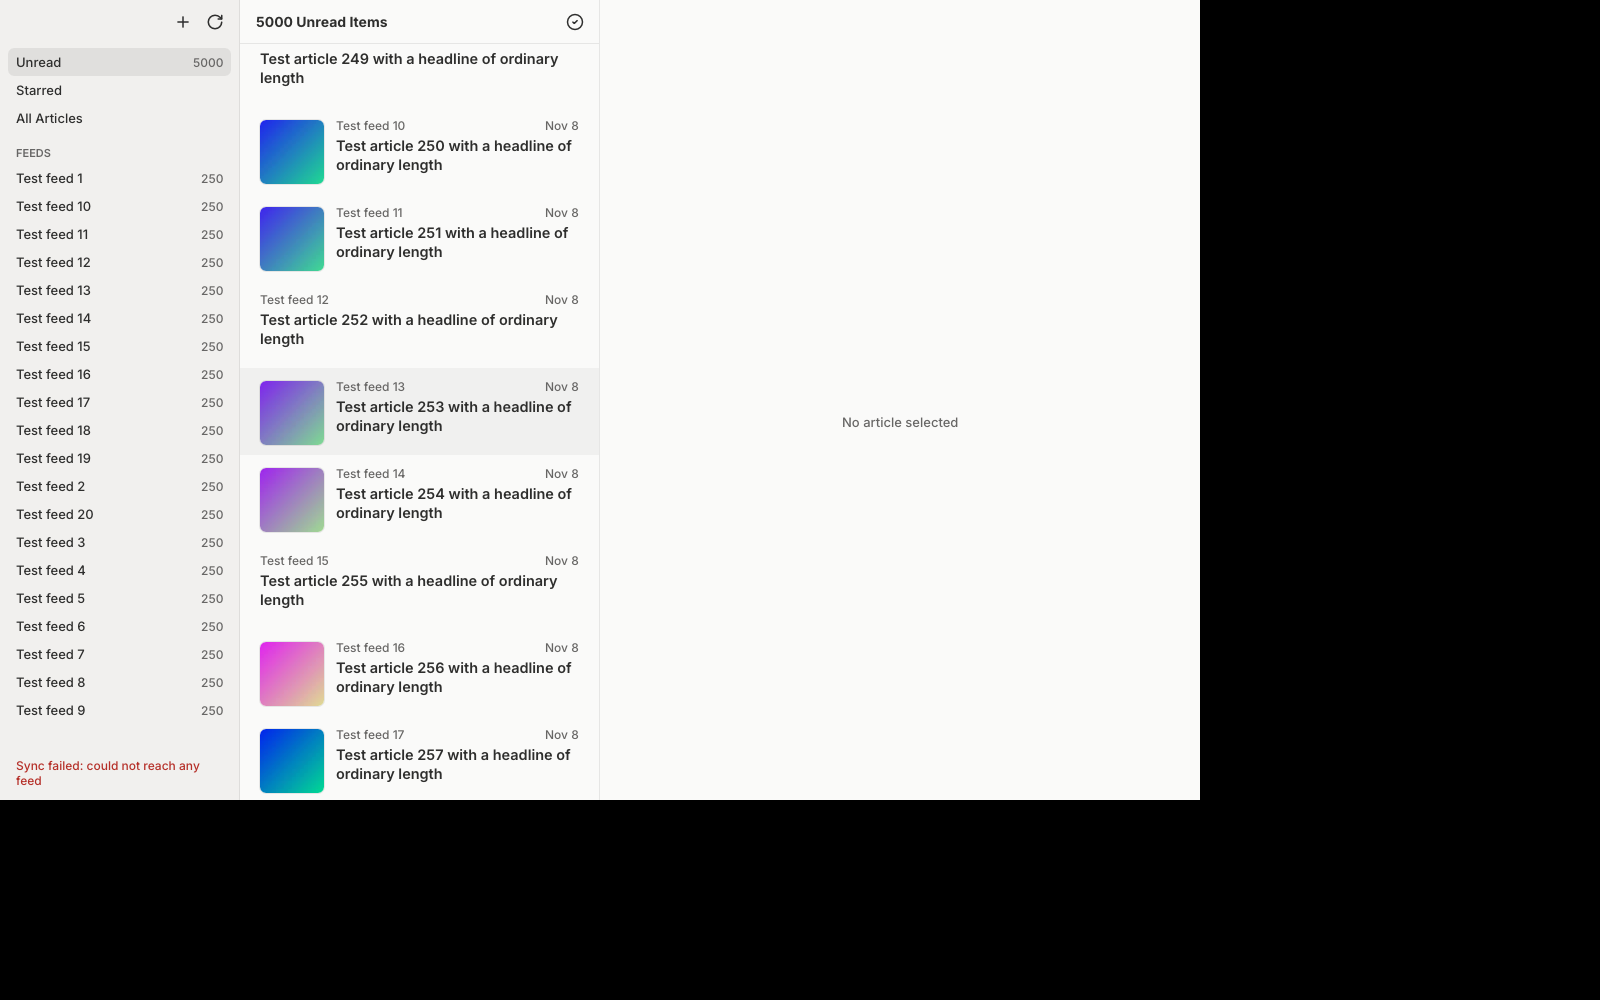
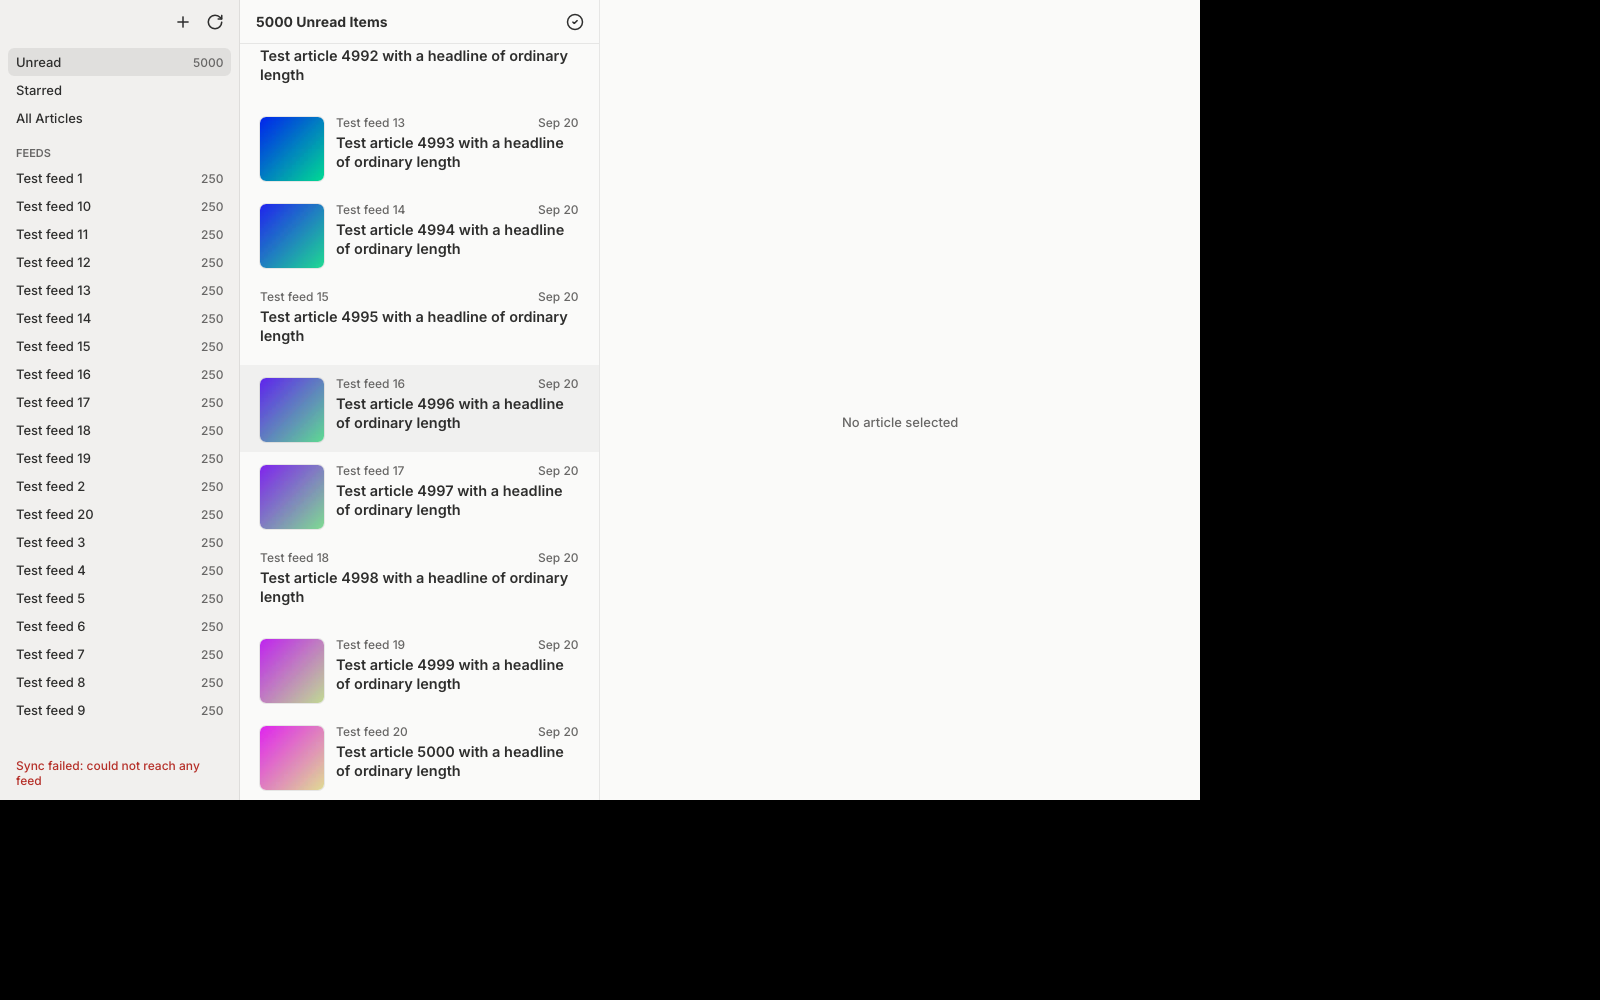
Scroll both apps to the bottom of the list in the bench
The same wheel notches scroll each app a different distance (on the dev
server, Tauri to article ~351 and Rust to ~249 after 360), so the scroll CPU
wasn't comparable. Scroll in batches of 100 until a batch leaves the window
unchanged: both apps cover all 5,000 articles. The report adds the notches and
seconds each app needed.

diff --git a/bench/bench.py b/bench/bench.py
@@ -6,7 +6,8 @@ account), then measures the app and every process it runs (WebKit's included):
 
   launch  10 s after its window appears
   idle    the 30 s after that
-  scroll  360 mouse-wheel notches over the article list, 30 ms apart
+  scroll  mouse-wheel notches over the article list, 30 ms apart, in batches of 100, until
+          a batch no longer changes the window: the whole list, the same distance in both apps
 
 Linux (X11, or Xwayland: both apps are made to use it) and macOS. Python 3.9+, standard
 library only. See README.md next to this file.
@@ -15,6 +16,7 @@ library only. See README.md next to this file.
 import argparse
 import ctypes
 import datetime
+import hashlib
 import lzma
 import os
 import platform
@@ -36,8 +38,7 @@ def main():
     parser.add_argument("--rust", required=True, help="the all-Rust build's binary")
     parser.add_argument("--machine", required=True, help="a short name for the results file, like steam-deck or macbook-m1")
     parser.add_argument("--runs", type=int, default=2, help="measured runs per app (default 2)")
-    parser.add_argument("--notches", type=int, default=360)
-    parser.add_argument("--wheel-delta", type=int, default=-1,
+    parser.add_argument("--wheel-delta", type=int, default=-3,
                         help="macOS only: lines per scroll event; flip the sign if the list scrolls up")
     parser.add_argument("--no-warmup", action="store_true",
                         help="skip the unmeasured first launch of each app that fills shader caches")
@@ -107,7 +108,9 @@ def run(plat, label, binary, args, measure):
         pids = plat.processes(proc.pid, before)
         cpu_before = plat.cpu(pids)
         threads_before = plat.threads(pids)
-        plat.scroll(proc.pid, x, y, args.notches, args.wheel_delta)
+        scroll_started = time.time()
+        notches = scroll_to_bottom(plat, label, window, args.wheel_delta)
+        scroll_time = time.time() - scroll_started
         time.sleep(3)
         pids = plat.processes(proc.pid, before)
         cpu_scroll = plat.cpu(pids) - cpu_before
@@ -119,6 +122,7 @@ def run(plat, label, binary, args, measure):
             "cpu_launch": cpu_launch, "mem_launch": mem_launch,
             "cpu_idle": cpu_idle, "mem_idle": mem_idle,
             "cpu_scroll": cpu_scroll, "mem_scroll": mem_scroll,
+            "notches": notches, "scroll_time": scroll_time,
             "per_process": plat.per_process(pids), "threads": threads, "screenshot": shot,
         }
     finally:
@@ -132,6 +136,31 @@ def run(plat, label, binary, args, measure):
         time.sleep(2)
 
 
+BATCH = 100
+MAX_NOTCHES = 30000
+
+
+def scroll_to_bottom(plat, label, window, delta):
+    """Scrolls in batches until one leaves the window unchanged; returns the notches sent.
+
+    The last batch, at the bottom, moves nothing; both apps get one, so it stays fair."""
+    last, sent = plat.snapshot(window), 0
+    while True:
+        plat.scroll(BATCH, delta)
+        sent += BATCH
+        time.sleep(0.5)
+        now = plat.snapshot(window)
+        if now == last:
+            if sent == BATCH:
+                sys.exit(f"{label}: the window didn't change while scrolling. Either the pointer wasn't over "
+                         "the list, or capturing the window doesn't work here (on macOS: Screen Recording "
+                         "access). See README.md.")
+            return sent
+        if sent >= MAX_NOTCHES:
+            sys.exit(f"{label}: no bottom after {sent} notches; is the window still changing on its own?")
+        last = now
+
+
 def diff_threads(before, after):
     out = {name: after[name] - before.get(name, 0.0) for name in after}
     return sorted(((s, n) for n, s in out.items() if s >= 0.05), reverse=True)[:12]
@@ -143,7 +172,8 @@ def summary_line(r, plat):
     return (f"window after {r['window_after']:.1f} s | procs {r['procs']} | "
             f"launch cpu {r['cpu_launch']:.2f} s, {a}/{b} {fmt(r['mem_launch'])} | "
             f"idle 30 s cpu {r['cpu_idle']:.2f} s, {fmt(r['mem_idle'])} | "
-            f"scroll cpu {r['cpu_scroll']:.2f} s, {fmt(r['mem_scroll'])}")
+            f"scroll {r['notches']} notches in {r['scroll_time']:.0f} s, cpu {r['cpu_scroll']:.2f} s, "
+            f"{fmt(r['mem_scroll'])}")
 
 
 def write_report(args, plat, apps, results):
@@ -156,16 +186,17 @@ def write_report(args, plat, apps, results):
         f"- Date: {datetime.date.today().isoformat()}",
         f"- Machine: {plat.machine_info()}",
         f"- Builds: " + ", ".join(f"{label} `{git_rev(binary)}`" for label, binary in apps),
-        f"- Settings: {args.runs} runs, {args.notches} notches, warm-up {'off' if args.no_warmup else 'on'}",
+        f"- Settings: {args.runs} runs, scroll to the bottom of the list, warm-up {'off' if args.no_warmup else 'on'}",
         f"- Memory columns: {a} / {b} in MB, summed over the app and its child processes. {plat.mem_note}",
         "",
-        f"| Run | Window after | Procs | Launch CPU | Launch {a}/{b} | Idle 30 s CPU | Idle {a}/{b} | Scroll CPU | After scroll {a}/{b} |",
-        "|---|---|---|---|---|---|---|---|---|",
+        f"| Run | Window after | Procs | Launch CPU | Launch {a}/{b} | Idle 30 s CPU | Idle {a}/{b} | Notches | Scroll time | Scroll CPU | After scroll {a}/{b} |",
+        "|---|---|---|---|---|---|---|---|---|---|---|",
     ]
     for r in results:
         m = lambda k: f"{r[k][0]:.0f} / {r[k][1]:.0f}"
         lines.append(f"| {r['label']} | {r['window_after']:.1f} s | {r['procs']} | {r['cpu_launch']:.2f} s | "
-                     f"{m('mem_launch')} | {r['cpu_idle']:.2f} s | {m('mem_idle')} | {r['cpu_scroll']:.2f} s | "
+                     f"{m('mem_launch')} | {r['cpu_idle']:.2f} s | {m('mem_idle')} | {r['notches']} | {r['scroll_time']:.0f} s | "
+                     f"{r['cpu_scroll']:.2f} s | "
                      f"{m('mem_scroll')} |")
     for r in results:
         lines += ["", f"## {r['label']}", "", f"Processes after the scroll ({a} / {b} MB):", ""]
@@ -321,7 +352,10 @@ class Linux(Platform):
     def prepare_scroll(self, pid, x, y):
         self.x.move(x, y)
 
-    def scroll(self, pid, x, y, notches, _delta):
+    def snapshot(self, window):
+        return self.x.snapshot(window[4], window[2], window[3])
+
+    def scroll(self, notches, _delta):
         for _ in range(notches):
             self.x.wheel_down()
             time.sleep(0.03)
@@ -358,6 +392,14 @@ class XWindowAttributes(ctypes.Structure):
                 ("override_redirect", ctypes.c_int), ("screen", ctypes.c_void_p)]
 
 
+class XImage(ctypes.Structure):
+    """The start of Xlib's XImage: the fields up to the ones read here."""
+    _fields_ = [("width", ctypes.c_int), ("height", ctypes.c_int), ("xoffset", ctypes.c_int),
+                ("format", ctypes.c_int), ("data", ctypes.c_void_p), ("byte_order", ctypes.c_int),
+                ("bitmap_unit", ctypes.c_int), ("bitmap_bit_order", ctypes.c_int), ("bitmap_pad", ctypes.c_int),
+                ("depth", ctypes.c_int), ("bytes_per_line", ctypes.c_int), ("bits_per_pixel", ctypes.c_int)]
+
+
 class Xlib:
     """Just enough Xlib + XTest, through ctypes, to find a window by PID and scroll it."""
 
@@ -384,6 +426,8 @@ class Xlib:
         x.XTranslateCoordinates.argtypes = [c.c_void_p, c.c_ulong, c.c_ulong, c.c_int, c.c_int,
                                             c.POINTER(c.c_int), c.POINTER(c.c_int), c.POINTER(c.c_ulong)]
         x.XFree.argtypes = [c.c_void_p]
+        x.XGetImage.restype = c.c_void_p
+        x.XGetImage.argtypes = [c.c_void_p, c.c_ulong, c.c_int, c.c_int, c.c_uint, c.c_uint, c.c_ulong, c.c_int]
         x.XFlush.argtypes = [c.c_void_p]
         x.XSync.argtypes = [c.c_void_p, c.c_int]
         self.t.XTestFakeMotionEvent.argtypes = [c.c_void_p, c.c_int, c.c_int, c.c_int, c.c_ulong]
@@ -419,7 +463,7 @@ class Xlib:
         return out
 
     def window_of(self, pid):
-        """(x, y, width, height) on the root of pid's largest viewable window, or None."""
+        """(x, y, width, height, id) on the root of pid's largest viewable window, or None."""
         best, todo = None, [self.root]
         while todo:
             w = todo.pop()
@@ -435,8 +479,19 @@ class Xlib:
             self.x.XTranslateCoordinates(self.d, w, self.root, 0, 0, ctypes.byref(rx), ctypes.byref(ry),
                                          ctypes.byref(child))
             if best is None or a.width * a.height > best[2] * best[3]:
-                best = (rx.value, ry.value, a.width, a.height)
+                best = (rx.value, ry.value, a.width, a.height, w)
         return best
+
+    def snapshot(self, w, width, height):
+        """A hash of the window's pixels."""
+        img = self.x.XGetImage(self.d, w, 0, 0, width, height, (1 << 64) - 1, 2)  # AllPlanes, ZPixmap
+        if not img:
+            return None
+        head = ctypes.cast(img, ctypes.POINTER(XImage))[0]
+        digest = hashlib.sha1(ctypes.string_at(head.data, head.bytes_per_line * head.height)).digest()
+        self.x.XFree(head.data)
+        self.x.XFree(img)
+        return digest
 
     def move(self, x, y):
         self.t.XTestFakeMotionEvent(self.d, -1, x, y, 0)
@@ -531,7 +586,17 @@ class Mac(Platform):
     def prepare_scroll(self, pid, x, y):
         subprocess.run([self.helper, "focus", str(pid), str(x), str(y)], check=True)
 
-    def scroll(self, pid, x, y, notches, delta):
+    def snapshot(self, window):
+        path = os.path.join(self.home, "snapshot.png")
+        region = ",".join(str(v) for v in window[:4])
+        subprocess.run(["screencapture", "-x", "-R", region, path], capture_output=True)
+        try:
+            with open(path, "rb") as f:
+                return hashlib.sha1(f.read()).digest()
+        except OSError:
+            return None
+
+    def scroll(self, notches, delta):
         subprocess.run([self.helper, "scroll", str(notches), str(delta), "30"], check=True)
 
     def screenshot(self, path):

diff --git a/bench/README.md b/bench/README.md
@@ -19,7 +19,12 @@ Per run, summed over the app and all its processes:
 | Window after | Seconds from launch until the window is on screen |
 | Launch | CPU time and memory 10 s after the window appeared |
 | Idle | CPU time over the next 30 s, memory at the end |
-| Scroll | 360 mouse-wheel notches over the article list, 30 ms apart; CPU time and memory after |
+| Scroll | Mouse-wheel notches over the article list, 30 ms apart, from the top **to the bottom of the list**; CPU time and memory after |
+
+The scroll runs in batches of 100 notches. After each batch the script captures the window,
+and it stops when a batch leaves the window unchanged: the list is at the bottom. So both apps
+scroll exactly the same distance, all 5,000 articles, however far one notch goes in each
+(it differs per app and per OS). The report has the notches and seconds each app needed.
 
 First, each app is launched once without measuring (warm-up) so shader caches are filled.
 Then the apps alternate, `--runs` times each (default 2). On Linux the report also splits
@@ -45,9 +50,9 @@ The binaries are `../skvaller-main/target/release/skvaller` and
 
 - Needs the Xcode Command Line Tools (`swiftc`, used to build `mac-input.swift` on the first
   run), Rust and bun.
-- Give the terminal app that runs the script **Accessibility** access (System Settings >
-  Privacy & Security > Accessibility). The script stops with a message if it's missing. For
-  the screenshots, also **Screen Recording**; without it they show only the desktop.
+- Give the terminal app that runs the script **Accessibility** access (to send scroll events)
+  and **Screen Recording** access (to see when the list reaches the bottom), in System
+  Settings > Privacy & Security. The script stops with a message if either is missing.
 
 ### Steam Deck
 
@@ -75,7 +80,7 @@ python3 bench/bench.py \
   --machine steam-deck        # or macbook-<chip>, e.g. macbook-m1
 ```
 
-It takes about 6 minutes. Don't touch the mouse or the keyboard while it runs: the scroll
+It takes about 15–20 minutes. Don't touch the mouse or the keyboard while it runs: the scroll
 goes to whatever is under the pointer. It writes `bench/results/<machine>.md` and a
 screenshot after each run's scroll.
 
@@ -83,12 +88,13 @@ screenshot after each run's scroll.
 
 Open every screenshot.
 
-- Both apps' article lists must have scrolled down, well past the first article. Write down
-  the number of the top article ("Test article N") in each screenshot. The two apps scroll
-  **different distances** for the same notches (on the Linux dev server: Tauri ~351, Rust
-  ~249), so the scroll CPU is only comparable together with that distance.
-- On macOS, if a list scrolled up instead, run again with `--wheel-delta 1`. If it didn't move,
-  the pointer was not over the list: check that the window is fully on screen.
+- Both apps' article lists must be at the bottom: the last articles (Test article 4,99x)
+  showing. If one isn't, the run doesn't count: find out why (a window partly off screen,
+  another window on top) and run again.
+- If the script says the window didn't change while scrolling: on macOS, check Screen
+  Recording access, and run again with `--wheel-delta 3` in case the list scrolled up (it is
+  already at the top, so up looks like no change). Otherwise, make sure the whole window is on
+  screen.
 - On Linux, the report must have no "rendered in software" warning for either app. If the
   all-Rust app has one, fix the container's Vulkan driver and run again.
 - The runs of the same app should agree within a few percent. If they don't, something else
@@ -96,8 +102,8 @@ Open every screenshot.
 
 ## 4. Report
 
-Add to the end of `bench/results/<machine>.md` a short `## Notes` section: the top article
-number in each screenshot, anything unusual, and the setup (Xwayland on the Deck, power
+Add to the end of `bench/results/<machine>.md` a short `## Notes` section: whether every
+screenshot shows the bottom of the list, anything unusual, and the setup (Xwayland on the Deck, power
 plugged in). Then commit the `.md` and the `.png` files to this branch and push:
 
 ```sh

diff --git a/bench/results/dev-server-xvfb.md b/bench/results/dev-server-xvfb.md
@@ -2,34 +2,35 @@
 
 - Date: 2026-11-11
 - Machine: 12th Gen Intel(R) Core(TM) i5-12400T, 7947 MB RAM, Debian GNU/Linux 13 (trixie) (kernel 6.12.113+deb13-cloud-amd64), session ?, apps on X11/Xwayland
-- Builds: tauri `612f433 Open windows in their settings' theme and font from the first paint`, rust `6e0a81b Crop Large thumbnails to their box`
-- Settings: 1 runs, 360 notches, warm-up off
+- Builds: tauri `612f433 Open windows in their settings' theme and font from the first paint`, rust `1d80478 Add a CPU and memory test comparing the Tauri and all-Rust builds`
+- Settings: 1 runs, scroll to the bottom of the list, warm-up off
 - Memory columns: PSS / RSS in MB, summed over the app and its child processes. PSS splits shared pages between processes; use it to compare.
 
-| Run | Window after | Procs | Launch CPU | Launch PSS/RSS | Idle 30 s CPU | Idle PSS/RSS | Scroll CPU | After scroll PSS/RSS |
-|---|---|---|---|---|---|---|---|---|
-| tauri1 | 35.3 s | 3 | 2.98 s | 510 / 693 | 0.02 s | 500 / 683 | 10.28 s | 775 / 958 |
-| rust1 | 0.2 s | 1 | 0.82 s | 313 / 318 | 0.00 s | 313 / 318 | 24.51 s | 304 / 309 |
+| Run | Window after | Procs | Launch CPU | Launch PSS/RSS | Idle 30 s CPU | Idle PSS/RSS | Notches | Scroll time | Scroll CPU | After scroll PSS/RSS |
+|---|---|---|---|---|---|---|---|---|---|---|
+| tauri1 | 35.3 s | 3 | 2.42 s | 513 / 687 | 0.01 s | 503 / 677 | 5200 | 183 s | 135.30 s | 796 / 970 |
+| rust1 | 0.2 s | 1 | 0.39 s | 313 / 318 | 0.00 s | 313 / 318 | 7400 | 264 s | 539.97 s | 321 / 326 |
 
 ## tauri1
 
 Processes after the scroll (PSS / RSS MB):
 
-- skvaller: 137 / 213
-- WebKitWebProces: 596 / 670
+- skvaller: 137 / 208
+- WebKitWebProces: 617 / 686
 - WebKitNetworkPr: 42 / 75
 
 Scroll CPU by thread:
 
-- WebKitWebProces: llvmpipe-: 4.57 s
-- WebKitWebProces: eadedCompositor: 2.06 s
-- WebKitWebProces: WebKitWebProces: 1.80 s
-- skvaller: skvaller: 0.64 s
-- WebKitWebProces: SkiaCPUWorker: 0.22 s
-- WebKitWebProces: ReceiveQueue: 0.16 s
-- skvaller: ReceiveQueue: 0.14 s
-- WebKitWebProces: Core: Scrolling: 0.14 s
-- WebKitWebProces: JITWorker: 0.10 s
+- WebKitWebProces: llvmpipe-: 63.63 s
+- WebKitWebProces: eadedCompositor: 24.97 s
+- WebKitWebProces: WebKitWebProces: 23.70 s
+- skvaller: skvaller: 8.97 s
+- WebKitWebProces: SkiaCPUWorker: 3.24 s
+- WebKitWebProces: ReceiveQueue: 2.18 s
+- skvaller: ReceiveQueue: 2.06 s
+- WebKitWebProces: Core: Scrolling: 1.40 s
+- WebKitWebProces: EventDispatcher: 0.35 s
+- skvaller: VBlankMonitor: 0.24 s
 
 **Warning: llvmpipe threads ran, so this app rendered in software, not on the GPU.**
 
@@ -39,14 +40,16 @@ Screenshot after the scroll: `results/dev-server-xvfb-tauri1.png`
 
 Processes after the scroll (PSS / RSS MB):
 
-- skvaller: 304 / 309
+- skvaller: 321 / 326
 
 Scroll CPU by thread:
 
-- skvaller: llvmpipe-: 18.39 s
-- skvaller: skvaller: 5.27 s
-- skvaller: tokio-rt-worker: 0.41 s
-- skvaller: WSI swapchain q: 0.37 s
+- skvaller: llvmpipe-: 410.29 s
+- skvaller: skvaller: 111.23 s
+- skvaller: tokio-rt-worker: 8.97 s
+- skvaller: WSI swapchain q: 8.71 s
+- skvaller: StyleThread#: 0.58 s
+- skvaller: WSI swapchain e: 0.12 s
 
 **Warning: llvmpipe threads ran, so this app rendered in software, not on the GPU.**
 
